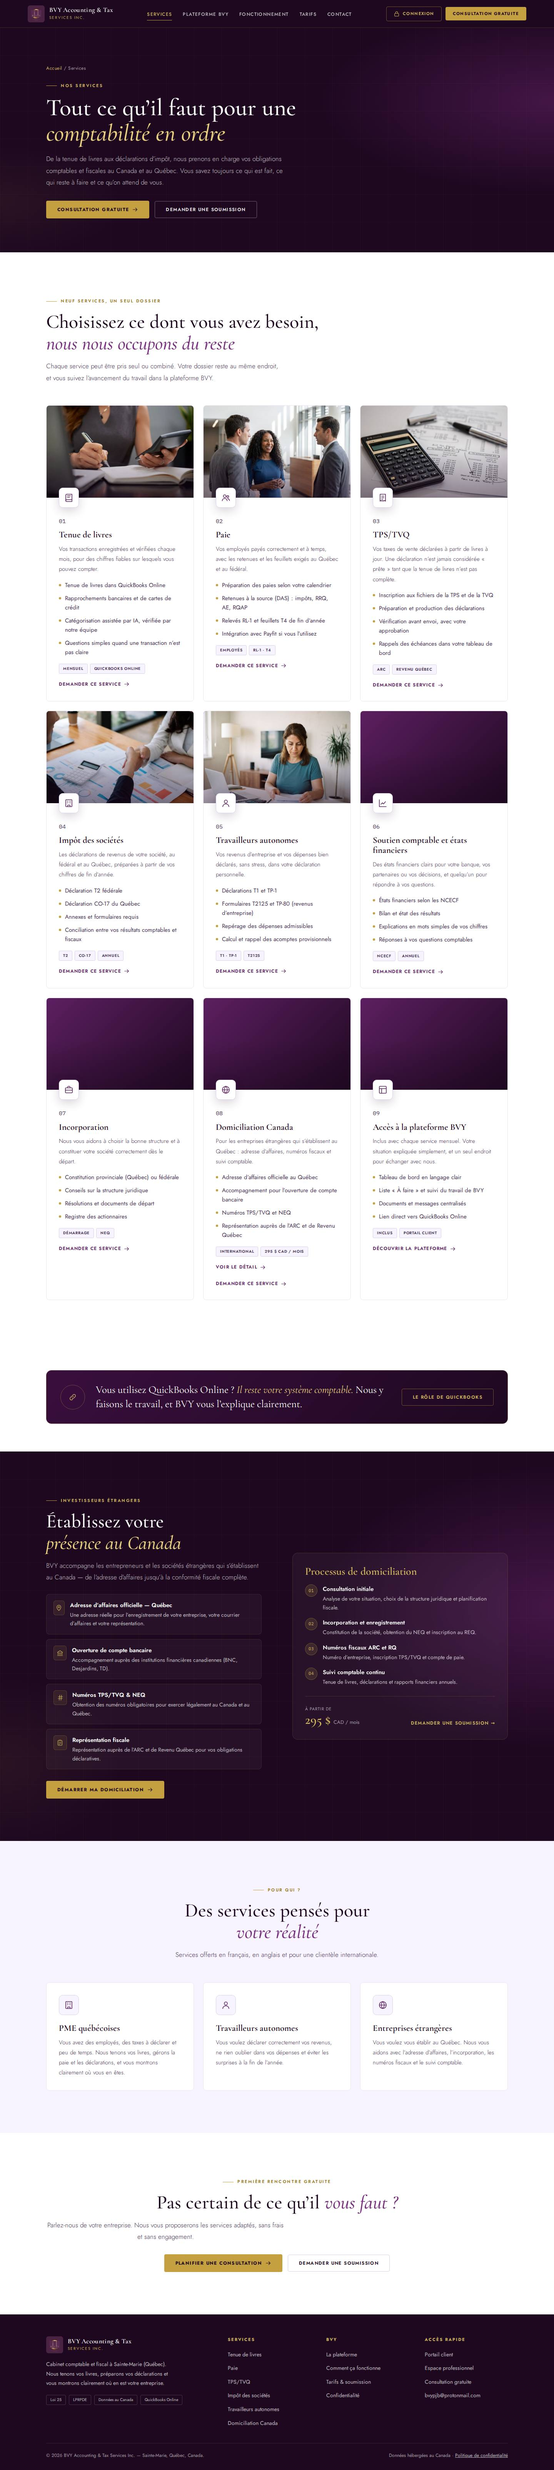
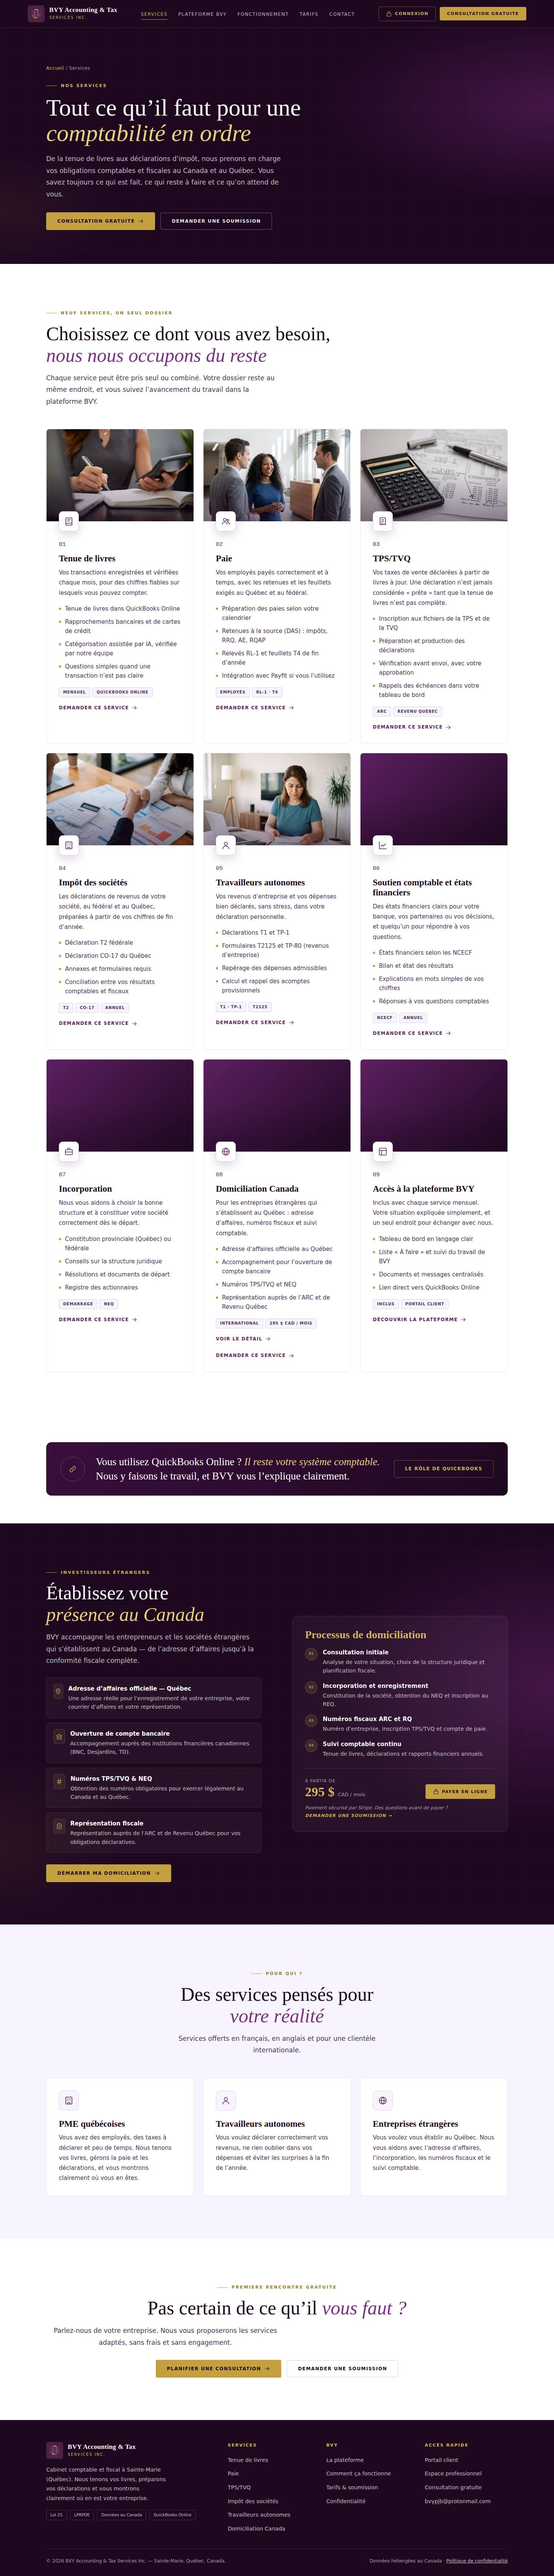
BVY site: Stripe payment link for the domiciliation offer
Pay-online button on the home page, services page and International
plan. The link lives in src/site.json (build variable) so the current
Stripe test link can be swapped for the live one in one place. Privacy
policy now discloses Stripe as payment processor.

Claude-Session: https://claude.ai/code/session_01TRM3YquBMTjpZKPZenWy7D

diff --git a/bvy-platform/apps/website/src/pages/confidentialite.html b/bvy-platform/apps/website/src/pages/confidentialite.html
@@ -55,13 +55,15 @@ nav: confidentialite
       <li>Nous n’utilisons pas de témoins ni d’outils de suivi pour vous profiler ou suivre votre navigation.</li>
     </ul>
 
-    <h2>8. Polices de caractères Google</h2>
+    <h2>8. Paiements en ligne (Stripe)</h2>
+    <p>Le paiement en ligne de la domiciliation est traité par Stripe, un fournisseur de paiement. Vous saisissez vos informations de carte directement sur la page sécurisée de Stripe : BVY ne les reçoit et ne les conserve jamais. Stripe traite ces renseignements selon sa propre politique de confidentialité et peut les traiter à l’extérieur du Québec et du Canada. BVY reçoit seulement la confirmation du paiement, votre nom et votre courriel.</p>
+    <h2>9. Polices de caractères Google</h2>
     <p>Pour afficher le site, votre navigateur télécharge des polices de caractères depuis les serveurs de Google (Google Fonts). Lors de ce téléchargement, votre adresse IP et des informations techniques de votre navigateur sont transmises à Google, qui peut les traiter à l’extérieur du Québec et du Canada. Aucun formulaire ni renseignement que vous saisissez n’est transmis à Google.</p>
 
-    <h2>9. Combien de temps nous les conservons</h2>
+    <h2>10. Combien de temps nous les conservons</h2>
     <p>Nous conservons vos renseignements seulement le temps nécessaire aux fins pour lesquelles ils ont été recueillis. Les demandes qui ne mènent pas à un mandat sont supprimées après 24 mois. Si vous devenez client, vos renseignements sont conservés selon les règles applicables à votre dossier et aux obligations légales et fiscales.</p>
 
-    <h2>10. Vos droits</h2>
+    <h2>11. Vos droits</h2>
     <p>Vous pouvez en tout temps :</p>
     <ul>
       <li><strong>Accéder</strong> aux renseignements personnels que nous détenons sur vous;</li>
@@ -72,10 +74,10 @@ nav: confidentialite
     </ul>
     <p>Pour exercer ces droits, écrivez à <a href="mailto:bvypjb@protonmail.com">bvypjb@protonmail.com</a>. Nous pourrions vous demander de confirmer votre identité avant de donner suite à votre demande. Nous vous répondrons dans les délais prévus par la loi.</p>
 
-    <h2>11. Incidents de confidentialité</h2>
+    <h2>12. Incidents de confidentialité</h2>
     <p>Si un incident de confidentialité touche vos renseignements (accès, utilisation ou communication non autorisés, ou perte), nous prenons rapidement les mesures pour en réduire les conséquences. Lorsque l’incident présente un risque de préjudice sérieux, nous vous en avisons, ainsi que la Commission d’accès à l’information, et nous l’inscrivons à notre registre des incidents, comme l’exige la loi.</p>
 
-    <h2>12. Modifications de cette politique</h2>
+    <h2>13. Modifications de cette politique</h2>
     <p>Nous pouvons mettre cette politique à jour. La date de la dernière mise à jour est indiquée en haut de cette page. En cas de changement important, nous l’indiquerons clairement sur le site.</p>
     <p class="note">Dernière mise à jour : 26 septembre 2026</p>
   </div>

diff --git a/bvy-platform/apps/website/public/confidentialite/index.html b/bvy-platform/apps/website/public/confidentialite/index.html
@@ -143,13 +143,15 @@
       <li>Nous n’utilisons pas de témoins ni d’outils de suivi pour vous profiler ou suivre votre navigation.</li>
     </ul>
 
-    <h2>8. Polices de caractères Google</h2>
+    <h2>8. Paiements en ligne (Stripe)</h2>
+    <p>Le paiement en ligne de la domiciliation est traité par Stripe, un fournisseur de paiement. Vous saisissez vos informations de carte directement sur la page sécurisée de Stripe : BVY ne les reçoit et ne les conserve jamais. Stripe traite ces renseignements selon sa propre politique de confidentialité et peut les traiter à l’extérieur du Québec et du Canada. BVY reçoit seulement la confirmation du paiement, votre nom et votre courriel.</p>
+    <h2>9. Polices de caractères Google</h2>
     <p>Pour afficher le site, votre navigateur télécharge des polices de caractères depuis les serveurs de Google (Google Fonts). Lors de ce téléchargement, votre adresse IP et des informations techniques de votre navigateur sont transmises à Google, qui peut les traiter à l’extérieur du Québec et du Canada. Aucun formulaire ni renseignement que vous saisissez n’est transmis à Google.</p>
 
-    <h2>9. Combien de temps nous les conservons</h2>
+    <h2>10. Combien de temps nous les conservons</h2>
     <p>Nous conservons vos renseignements seulement le temps nécessaire aux fins pour lesquelles ils ont été recueillis. Les demandes qui ne mènent pas à un mandat sont supprimées après 24 mois. Si vous devenez client, vos renseignements sont conservés selon les règles applicables à votre dossier et aux obligations légales et fiscales.</p>
 
-    <h2>10. Vos droits</h2>
+    <h2>11. Vos droits</h2>
     <p>Vous pouvez en tout temps :</p>
     <ul>
       <li><strong>Accéder</strong> aux renseignements personnels que nous détenons sur vous;</li>
@@ -160,10 +162,10 @@
     </ul>
     <p>Pour exercer ces droits, écrivez à <a href="mailto:bvypjb@protonmail.com">bvypjb@protonmail.com</a>. Nous pourrions vous demander de confirmer votre identité avant de donner suite à votre demande. Nous vous répondrons dans les délais prévus par la loi.</p>
 
-    <h2>11. Incidents de confidentialité</h2>
+    <h2>12. Incidents de confidentialité</h2>
     <p>Si un incident de confidentialité touche vos renseignements (accès, utilisation ou communication non autorisés, ou perte), nous prenons rapidement les mesures pour en réduire les conséquences. Lorsque l’incident présente un risque de préjudice sérieux, nous vous en avisons, ainsi que la Commission d’accès à l’information, et nous l’inscrivons à notre registre des incidents, comme l’exige la loi.</p>
 
-    <h2>12. Modifications de cette politique</h2>
+    <h2>13. Modifications de cette politique</h2>
     <p>Nous pouvons mettre cette politique à jour. La date de la dernière mise à jour est indiquée en haut de cette page. En cas de changement important, nous l’indiquerons clairement sur le site.</p>
     <p class="note">Dernière mise à jour : 26 septembre 2026</p>
   </div>

diff --git a/bvy-platform/apps/website/public/services/index.html b/bvy-platform/apps/website/public/services/index.html
@@ -289,7 +289,8 @@
         <li><span><b>Numéros fiscaux ARC et RQ</b><span>Numéro d’entreprise, inscription TPS/TVQ et compte de paie.</span></span></li>
         <li><span><b>Suivi comptable continu</b><span>Tenue de livres, déclarations et rapports financiers annuels.</span></span></li>
       </ol>
-      <div class="price"><div><small>À partir de</small><b>295 $ <span>CAD / mois</span></b></div><a class="link-arrow" href="/contact/?service=domiciliation">Demander une soumission →</a></div>
+      <div class="price"><div><small>À partir de</small><b>295 $ <span>CAD / mois</span></b></div><a class="btn btn-gold btn-sm" href="https://buy.stripe.com/test_cNi6oH8WR8YX3LzegX00002" target="_blank" rel="noopener"><svg class="i i-sm" aria-hidden="true"><use href="#i-lock"/></svg>Payer en ligne</a></div>
+      <p class="note" style="margin-top:14px">Paiement sécurisé par Stripe. Des questions avant de payer ? <a class="link-arrow" style="font-size:11px" href="/contact/?service=domiciliation">Demander une soumission →</a></p>
     </div>
   </div>
 </section>

diff --git a/bvy-platform/apps/website/src/pages/services.html b/bvy-platform/apps/website/src/pages/services.html
@@ -201,7 +201,8 @@ nav: services
         <li><span><b>Numéros fiscaux ARC et RQ</b><span>Numéro d’entreprise, inscription TPS/TVQ et compte de paie.</span></span></li>
         <li><span><b>Suivi comptable continu</b><span>Tenue de livres, déclarations et rapports financiers annuels.</span></span></li>
       </ol>
-      <div class="price"><div><small>À partir de</small><b>295 $ <span>CAD / mois</span></b></div><a class="link-arrow" href="/contact/?service=domiciliation">Demander une soumission →</a></div>
+      <div class="price"><div><small>À partir de</small><b>295 $ <span>CAD / mois</span></b></div><a class="btn btn-gold btn-sm" href="{{stripe_domiciliation}}" target="_blank" rel="noopener"><svg class="i i-sm" aria-hidden="true"><use href="#i-lock"/></svg>Payer en ligne</a></div>
+      <p class="note" style="margin-top:14px">Paiement sécurisé par Stripe. Des questions avant de payer ? <a class="link-arrow" style="font-size:11px" href="/contact/?service=domiciliation">Demander une soumission →</a></p>
     </div>
   </div>
 </section>

diff --git a/bvy-platform/apps/website/public/index.html b/bvy-platform/apps/website/public/index.html
@@ -262,7 +262,8 @@
         <li><span><b>Numéros fiscaux ARC et RQ</b><span>Numéro d’entreprise, TPS/TVQ et compte de paie.</span></span></li>
         <li><span><b>Suivi comptable continu</b><span>Tenue de livres, déclarations et rapports annuels.</span></span></li>
       </ol>
-      <div class="price"><div><small>À partir de</small><b>295 $ <span>CAD / mois</span></b></div><a class="link-arrow" href="/contact/?service=domiciliation">En savoir plus →</a></div>
+      <div class="price"><div><small>À partir de</small><b>295 $ <span>CAD / mois</span></b></div><a class="btn btn-gold btn-sm" href="https://buy.stripe.com/test_cNi6oH8WR8YX3LzegX00002" target="_blank" rel="noopener"><svg class="i i-sm" aria-hidden="true"><use href="#i-lock"/></svg>Payer en ligne</a></div>
+      <p class="note" style="margin-top:14px">Paiement sécurisé par Stripe. Des questions avant de payer ? <a class="link-arrow" style="font-size:11px" href="/contact/?service=domiciliation">En savoir plus →</a></p>
     </div>
   </div>
 </section>

diff --git a/bvy-platform/apps/website/src/pages/index.html b/bvy-platform/apps/website/src/pages/index.html
@@ -174,7 +174,8 @@ nav: accueil
         <li><span><b>Numéros fiscaux ARC et RQ</b><span>Numéro d’entreprise, TPS/TVQ et compte de paie.</span></span></li>
         <li><span><b>Suivi comptable continu</b><span>Tenue de livres, déclarations et rapports annuels.</span></span></li>
       </ol>
-      <div class="price"><div><small>À partir de</small><b>295 $ <span>CAD / mois</span></b></div><a class="link-arrow" href="/contact/?service=domiciliation">En savoir plus →</a></div>
+      <div class="price"><div><small>À partir de</small><b>295 $ <span>CAD / mois</span></b></div><a class="btn btn-gold btn-sm" href="{{stripe_domiciliation}}" target="_blank" rel="noopener"><svg class="i i-sm" aria-hidden="true"><use href="#i-lock"/></svg>Payer en ligne</a></div>
+      <p class="note" style="margin-top:14px">Paiement sécurisé par Stripe. Des questions avant de payer ? <a class="link-arrow" style="font-size:11px" href="/contact/?service=domiciliation">En savoir plus →</a></p>
     </div>
   </div>
 </section>

diff --git a/bvy-platform/apps/website/build.js b/bvy-platform/apps/website/build.js
@@ -40,6 +40,7 @@ function build() {
     .update(fs.readFileSync(path.join(PUBLIC, 'assets/js/bvy.js')))
     .digest('hex').slice(0, 8);
   const year = String(new Date().getFullYear());
+  const site = JSON.parse(fs.readFileSync(path.join(SRC, 'site.json'), 'utf8'));
   const pages = fs.readdirSync(path.join(SRC, 'pages')).filter((f) => f.endsWith('.html')).sort();
   const sitemap = [];
 
@@ -55,6 +56,9 @@ function build() {
       .replaceAll('{{robots}}', robots)
       .replaceAll('{{version}}', version)
       .replaceAll('{{year}}', year);
+    for (const [key, value] of Object.entries(site)) {
+      if (!key.startsWith('_')) html = html.replaceAll(`{{${key}}}`, esc(value));
+    }
     if (meta.nav) {
       html = html.replaceAll(`data-nav="${meta.nav}"`, `data-nav="${meta.nav}" aria-current="page"`);
     }

diff --git a/bvy-platform/apps/website/public/tarifs/index.html b/bvy-platform/apps/website/public/tarifs/index.html
@@ -149,7 +149,8 @@
           <li>Suivi comptable continu</li>
           <li>Accès à la plateforme BVY</li>
         </ul>
-        <a class="btn btn-outline" href="/contact/?service=domiciliation">Demander une soumission</a>
+        <a class="btn btn-gold" href="https://buy.stripe.com/test_cNi6oH8WR8YX3LzegX00002" target="_blank" rel="noopener"><svg class="i i-sm" aria-hidden="true"><use href="#i-lock"/></svg>Payer en ligne — 295 $/mois</a>
+        <a class="btn btn-outline" href="/contact/?service=domiciliation" style="margin-top:0">Demander une soumission</a>
       </div>
     </div>
     <p class="note center reveal" style="margin-top:24px">Les montants sont en dollars canadiens. Le prix final est confirmé par écrit dans votre soumission.</p>

diff --git a/bvy-platform/apps/website/src/pages/tarifs.html b/bvy-platform/apps/website/src/pages/tarifs.html
@@ -61,7 +61,8 @@ nav: tarifs
           <li>Suivi comptable continu</li>
           <li>Accès à la plateforme BVY</li>
         </ul>
-        <a class="btn btn-outline" href="/contact/?service=domiciliation">Demander une soumission</a>
+        <a class="btn btn-gold" href="{{stripe_domiciliation}}" target="_blank" rel="noopener"><svg class="i i-sm" aria-hidden="true"><use href="#i-lock"/></svg>Payer en ligne — 295 $/mois</a>
+        <a class="btn btn-outline" href="/contact/?service=domiciliation" style="margin-top:0">Demander une soumission</a>
       </div>
     </div>
     <p class="note center reveal" style="margin-top:24px">Les montants sont en dollars canadiens. Le prix final est confirmé par écrit dans votre soumission.</p>

diff --git a/bvy-platform/review/REVIEW.md b/bvy-platform/review/REVIEW.md
@@ -76,3 +76,10 @@ Contrôle automatique : aucune erreur HTTP, aucun défilement horizontal, aucune
 Après `STATUS: APPROVED` : workflow `01_design_system.md` — transformer ce site en design system
 du portail (jetons, tableaux, modales, états vides/chargement/erreur, graphiques), puis phase 2
 (authentification et rôles).
+
+## 9. Paiement en ligne — domiciliation (ajout)
+
+Bouton « Payer en ligne » (Stripe) sur l'accueil, la page Services et la formule International des Tarifs.
+**Le lien actuel est un lien de TEST Stripe** (`buy.stripe.com/test_…`) : aucun vrai paiement n'est encaissé.
+Avant la mise en production, remplacer le lien dans `apps/website/src/site.json` par le lien réel
+(mode « live » de Stripe), puis `node build.js` et redéployer. La politique de confidentialité mentionne Stripe (section 8).

diff --git a/bvy-platform/README.md b/bvy-platform/README.md
@@ -27,3 +27,8 @@ Puis ouvrir http://localhost:3000 (Node.js 20.12 ou plus récent ; aucune instal
 1. Modifier le fichier dans `apps/website/src/pages/` (pas dans `public/`, qui est généré).
 2. `node build.js` puis `npm test`.
 3. Redéployer avec `tools\deployment\deploy.cmd`.
+
+## Réglages
+
+`apps/website/src/site.json` contient les liens à changer sans toucher aux pages (ex. lien de paiement Stripe
+de la domiciliation). Après modification : `node build.js`, puis redéployer.
